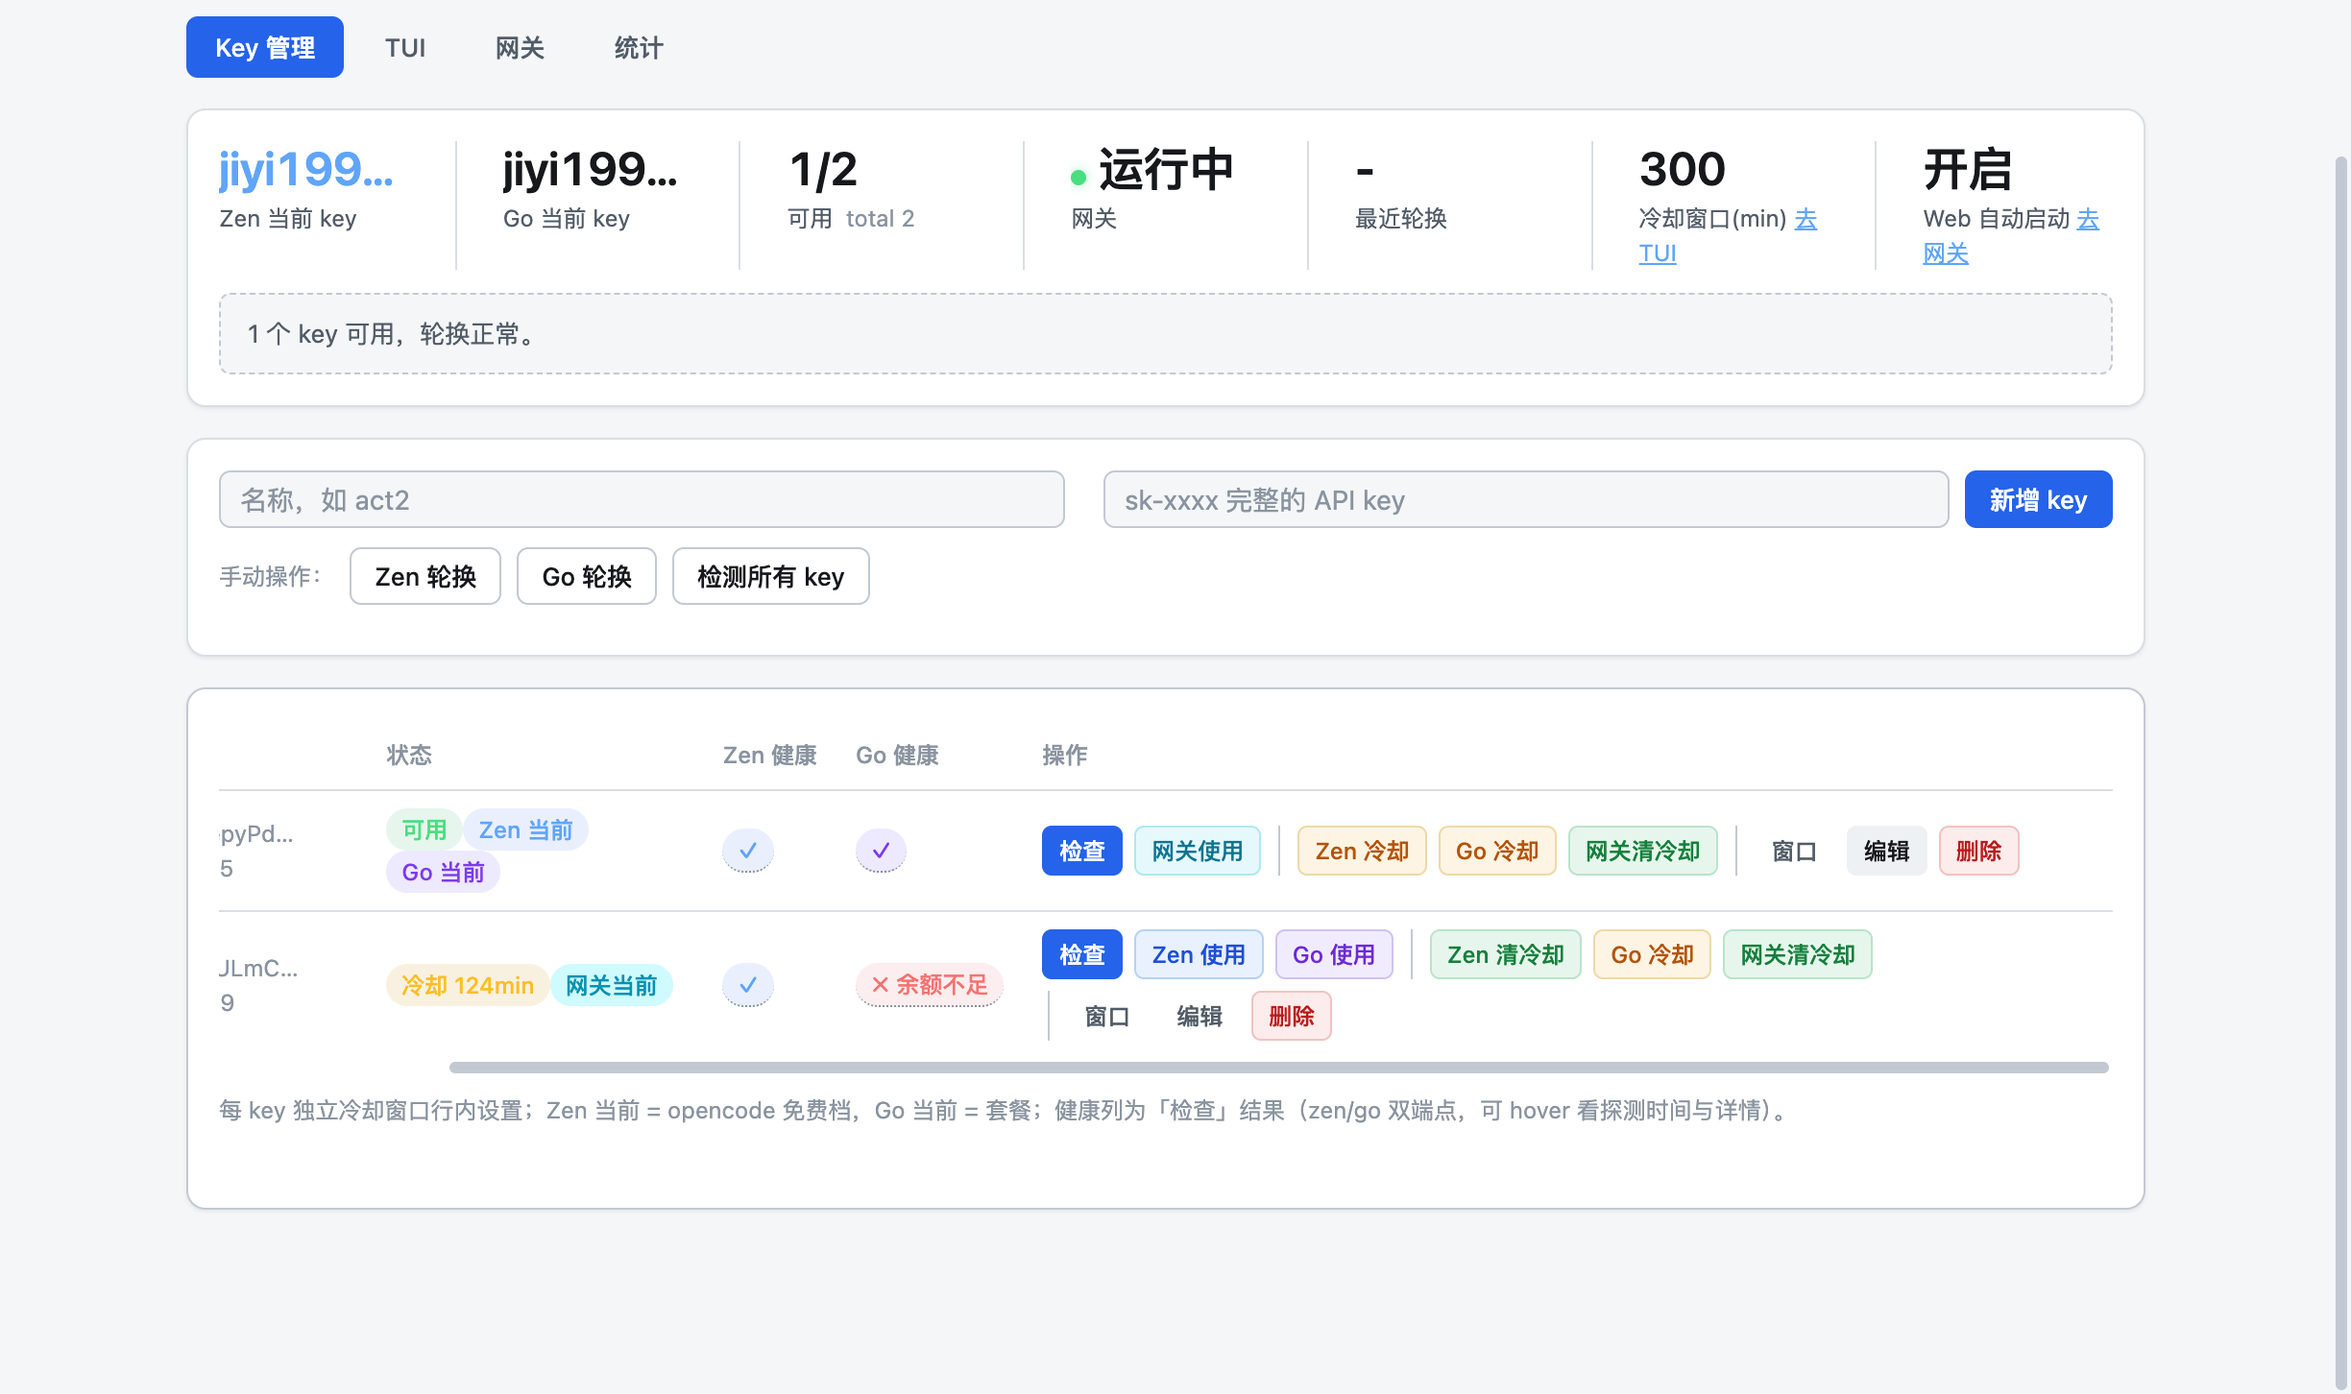
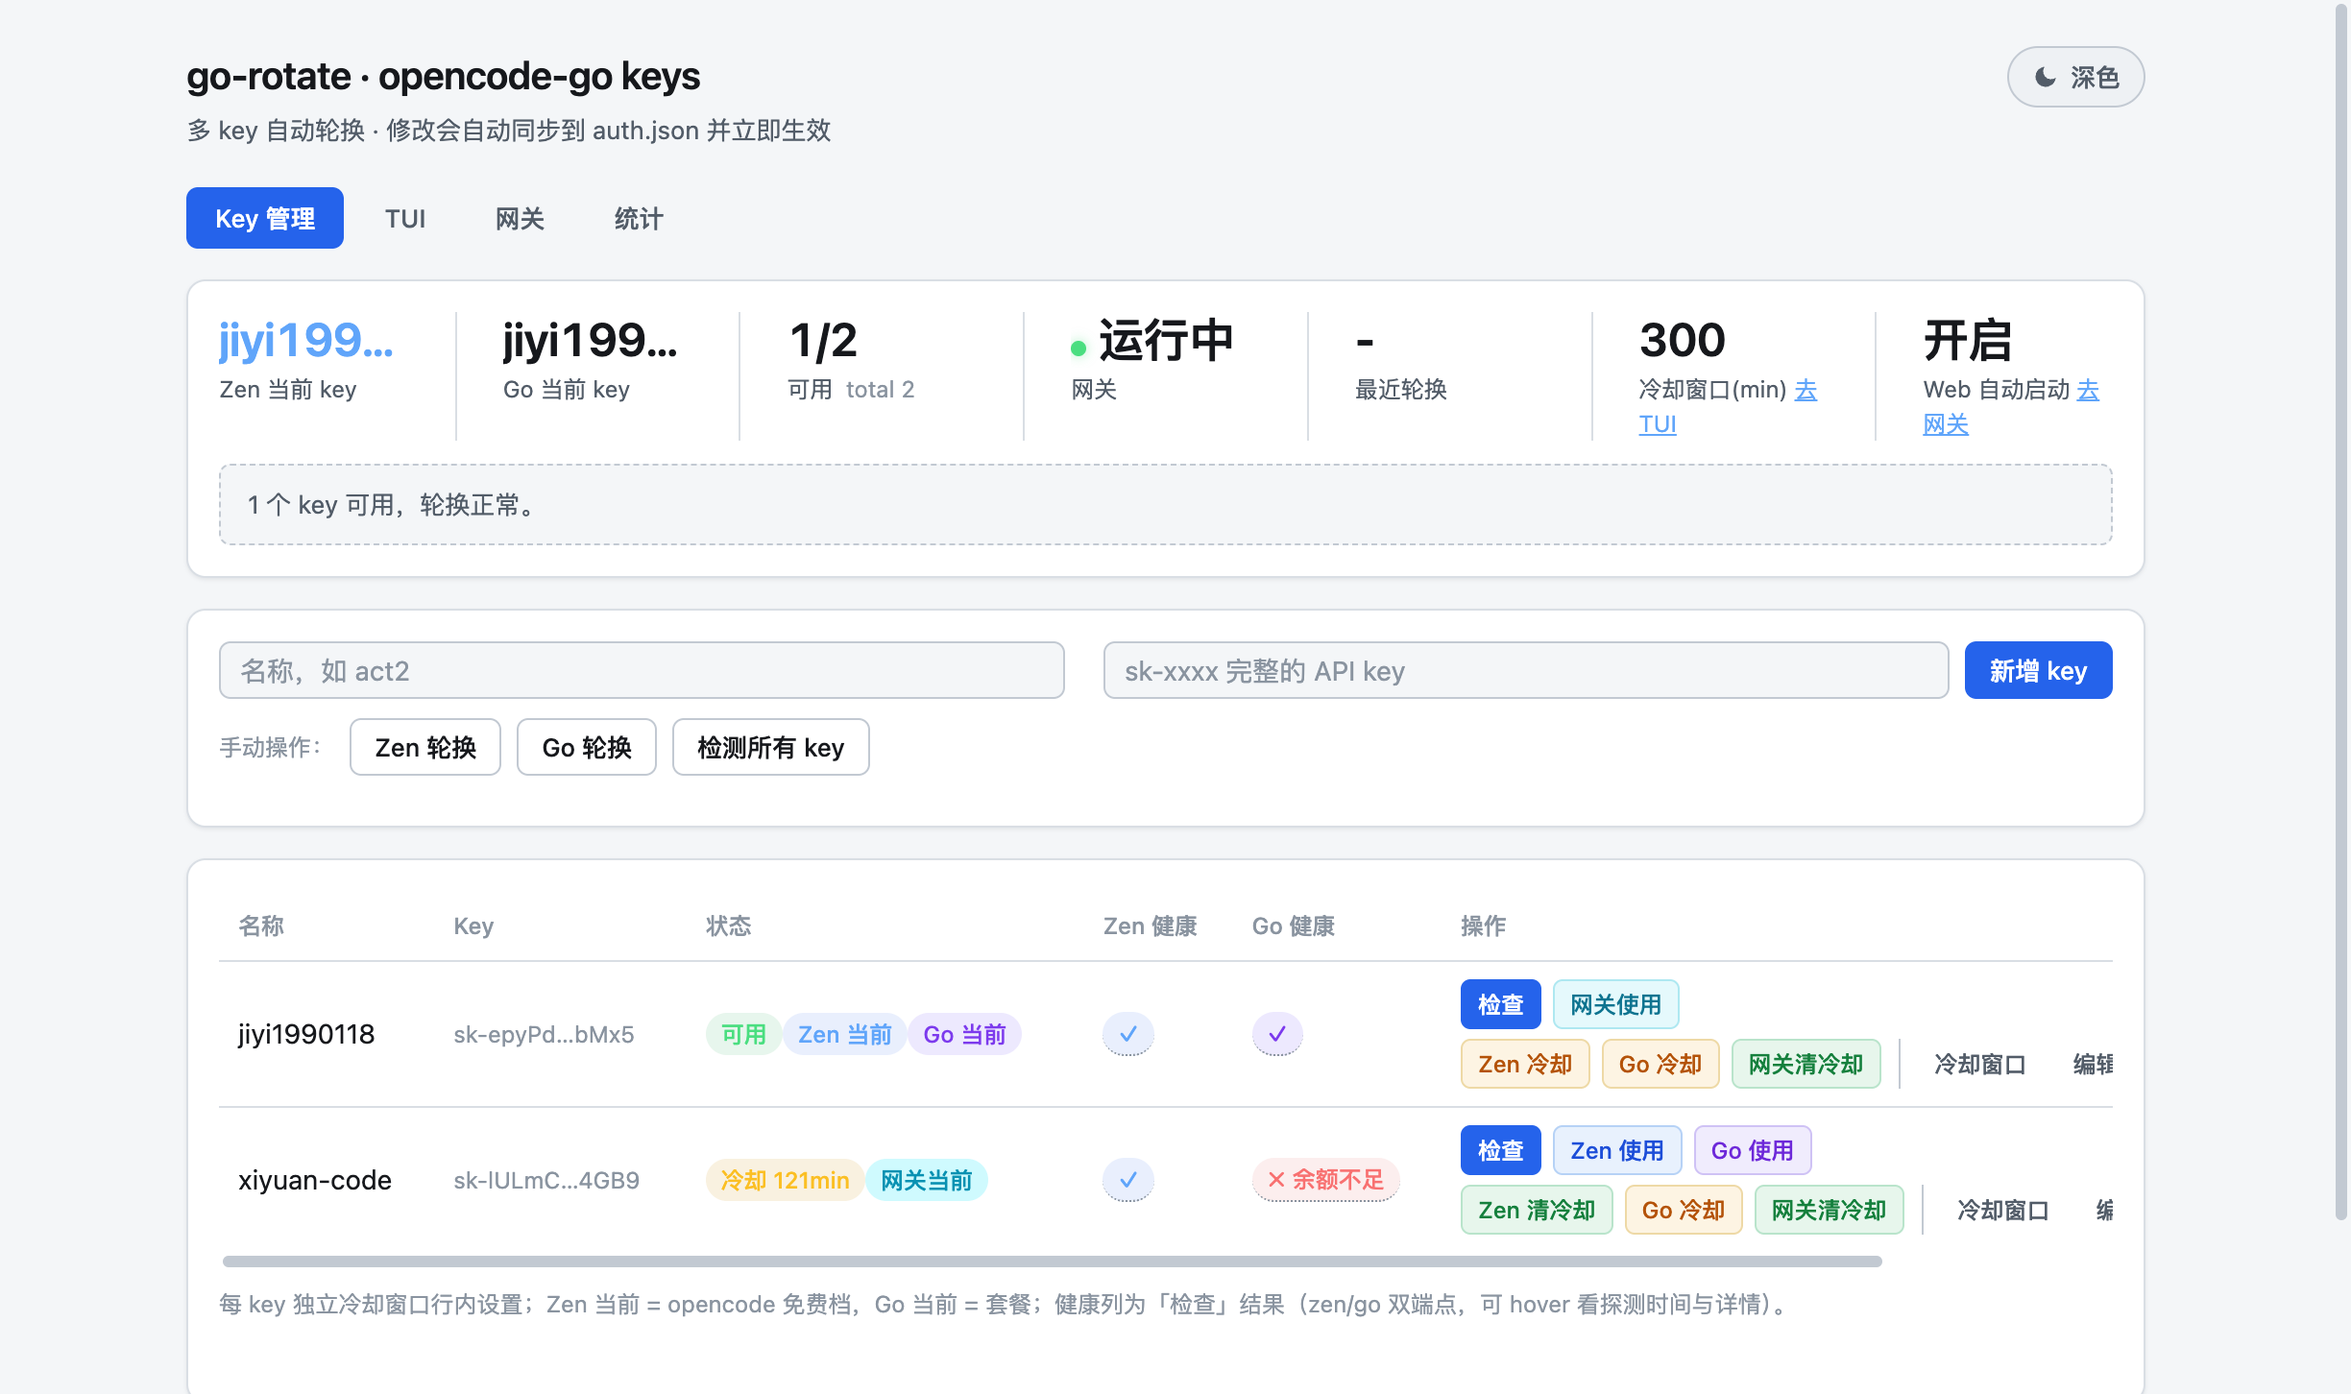
ui: two-row action layout + semantic cooldown-window button names
- .actions column layout with .row containers (row1: check+set-current, row2: cooldown+manage)
- separator rule scoped to .actions .row .grp + .grp (no border on row-leading group)
- rename 窗口->冷却窗口, 清窗->清除窗口 (data-window unchanged, title kept)
- plugin tests 137/137 (583 expect), inline JS node --check, real 8899 verified

diff --git a/go-rotate.ts b/go-rotate.ts
@@ -1278,10 +1278,12 @@ try {
   .small { font-size: 12px; }
   .row { display: flex; gap: var(--sp-2); align-items: center; }
   .row input { flex: 1; }
-  .actions { display: flex; gap: 6px; flex-wrap: wrap; }
-  /* 操作按钮分组：组间细分隔线 + 留白，按域/管理分块 */
+  .actions { display: flex; flex-direction: column; gap: 5px; }
+  /* 操作按钮两行布局：行1 = 检查 + 设为当前(三域)，行2 = 冷却(三域) + 管理 */
+  .actions .row { display: flex; gap: 6px; flex-wrap: wrap; align-items: center; }
+  /* 操作按钮分组：组间细分隔线 + 留白，按域/管理分块（每行行首组无边框） */
   .actions .grp { display: inline-flex; gap: 6px; align-items: center; }
-  .actions .grp + .grp { padding-left: 9px; border-left: 1px solid var(--bd-2); margin-left: 3px; }
+  .actions .row .grp + .grp { padding-left: 9px; border-left: 1px solid var(--bd-2); margin-left: 3px; }
   /* 单列堆叠：网关配置两块与日志双卡纵向排列，避免并排时内容宽度不足导致布局错乱 */
   .gw-config-grid { display: grid; grid-template-columns: 1fr; gap: var(--sp-4); align-items: start; }
   .log-row { display: grid; grid-template-columns: 1fr; gap: var(--sp-4); align-items: start; }
@@ -1793,7 +1795,7 @@ async function refresh() {
       const n = esc(k.name), key = esc(k.key), masked = esc(k.masked)
       const zenCooling = k.state === "cooling"
       const goCooling = !!(k.cooldown_until_go && Date.parse(k.cooldown_until_go) > Date.now())
-      /* 操作列分组：检查(主) | 设为当前(三域色) | 冷却(琥珀进入/绿清除) | 管理(ghost+danger) */
+      /* 操作列两行分组：行1 检查(主)+设为当前(三域色)；行2 冷却(琥珀进入/绿清除)+管理(ghost+danger) */
       tr.innerHTML =
         '<td class="td-name" title="' + n + '">' + n + '</td>' +
         '<td class="muted" title="' + key + '">' + masked + '</td>' +
@@ -1801,27 +1803,31 @@ async function refresh() {
         '<td>' + healthCell(k.last_status, k.last_checked_zen, "b-zen") + '</td>' +
         '<td>' + healthCell(k.last_status_go, k.last_checked_go, "b-go") + '</td>' +
         '<td><div class="actions">' +
-          '<button class="primary" data-check="' + n + '" title="探测该 key 双套餐健康（consumes ~1 token/端点）">检查</button>' +
-          '<span class="grp">' +
-            (k.isCurrent ? '' : '<button class="zen" data-set="' + n + '" title="设为 zen 免费档当前（同步 auth.json）">Zen 使用</button>') +
-            (k.isCurrentGo ? '' : '<button class="go" data-set-go="' + n + '" title="设为 go 套餐当前（不写 auth.json）">Go 使用</button>') +
-            (k.isCurrentGateway ? '' : '<button class="gw" data-set-gw="' + n + '" title="设为网关当前（不写 auth.json）">网关使用</button>') +
-          '</span>' +
-          '<span class="grp">' +
-            (zenCooling
-              ? '<button class="success" data-cooldown="' + n + '" data-min="0">Zen 清冷却</button>'
-              : '<button class="warn" data-cooldown="' + n + '" data-min="' + esc(st.cooldown_minutes) + '">Zen 冷却</button>') +
-            (goCooling
-              ? '<button class="success" data-cooldown-go="' + n + '" data-min="0">Go 清冷却</button>'
-              : '<button class="warn" data-cooldown-go="' + n + '" data-min="' + esc(st.cooldown_minutes) + '">Go 冷却</button>') +
-            '<button class="success" data-cooldown-gw="' + n + '" data-min="0" title="清除网关域冷却">网关清冷却</button>' +
-          '</span>' +
-          '<span class="grp">' +
-            '<button class="ghost" data-window="' + n + '" title="设置该 key 独立冷却窗口（分钟，留空清除回退全局）">窗口</button>' +
-            (k.cooldown_minutes ? '<button class="ghost" data-window-clear="' + n + '" title="清除独立窗口，回退全局">清窗</button>' : '') +
-            '<button class="ghost" data-edit="' + n + '" title="编辑名称 / key 值">编辑</button>' +
-            '<button class="danger" data-del="' + n + '">删除</button>' +
-          '</span>' +
+          '<div class="row">' +
+            '<button class="primary" data-check="' + n + '" title="探测该 key 双套餐健康（consumes ~1 token/端点）">检查</button>' +
+            '<span class="grp">' +
+              (k.isCurrent ? '' : '<button class="zen" data-set="' + n + '" title="设为 zen 免费档当前（同步 auth.json）">Zen 使用</button>') +
+              (k.isCurrentGo ? '' : '<button class="go" data-set-go="' + n + '" title="设为 go 套餐当前（不写 auth.json）">Go 使用</button>') +
+              (k.isCurrentGateway ? '' : '<button class="gw" data-set-gw="' + n + '" title="设为网关当前（不写 auth.json）">网关使用</button>') +
+            '</span>' +
+          '</div>' +
+          '<div class="row">' +
+            '<span class="grp">' +
+              (zenCooling
+                ? '<button class="success" data-cooldown="' + n + '" data-min="0">Zen 清冷却</button>'
+                : '<button class="warn" data-cooldown="' + n + '" data-min="' + esc(st.cooldown_minutes) + '">Zen 冷却</button>') +
+              (goCooling
+                ? '<button class="success" data-cooldown-go="' + n + '" data-min="0">Go 清冷却</button>'
+                : '<button class="warn" data-cooldown-go="' + n + '" data-min="' + esc(st.cooldown_minutes) + '">Go 冷却</button>') +
+              '<button class="success" data-cooldown-gw="' + n + '" data-min="0" title="清除网关域冷却">网关清冷却</button>' +
+            '</span>' +
+            '<span class="grp">' +
+              '<button class="ghost" data-window="' + n + '" title="设置该 key 独立冷却窗口（分钟，留空清除回退全局）">冷却窗口</button>' +
+              (k.cooldown_minutes ? '<button class="ghost" data-window-clear="' + n + '" title="清除独立窗口，回退全局">清除窗口</button>' : '') +
+              '<button class="ghost" data-edit="' + n + '" title="编辑名称 / key 值">编辑</button>' +
+              '<button class="danger" data-del="' + n + '">删除</button>' +
+            '</span>' +
+          '</div>' +
         '</div></td>'
       tb.appendChild(tr)
       }

diff --git a/AGENTS.md b/AGENTS.md
@@ -136,6 +136,8 @@ session.error 事件
 
 ## CLI 命令
 
+> **✅ Key 管理操作列两行化 + 按钮语义化（2026-08-17，用户反馈「按钮分两行展示、窗口语义化」→ 主线程追加）**：在分组多色基础上，① `.actions` 改 `flex-direction: column` + `.row` 子行容器（行1 = 检查+设为当前三域；行2 = 冷却三域+管理），分隔线规则改 `.actions .row .grp + .grp`（每行行首组无边框，实测行2 冷却组 0px / 管理组 1px，行间距 31px）；② 按钮名语义化：`窗口`→**冷却窗口**、`清窗`→**清除窗口**（title 保留，data-window 不变，测试只锁属性不锁文案）。**验证**：bun build ✅ + 插件单测 **137/137（583 expect，+4**：`.row` 容器×2 + 冷却窗口/清除窗口文案）✅ + 内嵌 JS node --check ✅；副本已同步 + 8899 重启（PID 23235）；浏览器实测 ✅（`flex-direction: column`、row1=[检查,网关使用]、row2=[Zen 冷却,Go 冷却,网关清冷却,冷却窗口,编辑,删除]、两行 top 510/541、分隔线 0px/1px 正确）；截图更新 `docs/gr-admin-keys-grouped.png`。**⚠ 观测**：验证期间页面两次弹出「冷却窗口」prompt（jiyi1990118 / xiyuan-code），非本会话触发、疑为用户手动操作，未代 dismiss/accept（dismiss 会清窗口=改配置）；若用户当时未输入，需自行完成。**commit 见 git log（未 push）。**
+
 > **✅ Key 管理操作列分组 + 状态多色交付（2026-08-17，用户反馈「按钮太多、状态分多种样式」→ 主线程实施）**：仅改 `go-rotate.ts`（CSS + refresh() 渲染）+ 单测断言，未动后端/CLI/网关。① **按钮分组**：`.actions` 内按「检查(主) | 设为当前(三域) | 冷却(三域) | 管理(窗口/编辑/删除)」四块，`.grp + .grp { border-left: 1px solid var(--bd-2); padding-left: 9px }` 细分隔线（实测第 2/3 组 1px #c2c9d2 浅 / #2c3442 深生效）。② **域色按钮**（新增双主题变量 `--btn-zen-*` 蓝 / `--btn-go-*` 紫 / `--btn-gw-*` 青 / `--btn-warn-*` 琥珀 + class `button.zen/go/gw/warn`）：检查=primary 实心蓝、Zen 使用=zen 蓝 soft、Go 使用=go 紫 soft、网关使用=gw 青 soft、冷却（进入）=warn 琥珀、清冷却=success 绿、窗口/清窗/编辑=ghost、删除=danger 红。③ **徽标域色化**：三域当前徽标 `b-current` → `b-zen`（蓝）/`b-go`（紫）/`b-gw`（青，新增 `.b-zen/.b-go/.b-gw` + `--go/--go-soft/--gw/--gw-soft` 双主题变量）；双套餐健康列 ✓ 从 `b-available` 绿改为域色（zen 列蓝 `b-zen` / go 列紫 `b-go`，✗ 分支保留语义色红/黄）。**验证**：bun build ✅ + 插件单测 **137/137（579 expect，+28 断言**：grp 分隔线/四组 class/badge 域色/健康列域色/双主题变量 8 个 + class 4 个）✅ + 渲染后内嵌 JS 双块 node --check ✅；副本已同步 + 8899 重启（PID 20519）；真实浏览器实测 ✅（行 1：Zen 当前蓝 + Go 当前紫 + ✓ 蓝/紫，按钮 检查[primary]/网关使用[gw]/冷却[warn]/清冷却[success]/窗口编辑[ghost]/删除[danger]；行 2：冷却琥珀 + 网关当前青 + Zen 使用[zen]/Go 使用[go]/Zen 清冷却[success]；分组 3 组分隔线生效；深色 rgba(96,165,250,.12)/rgba(167,139,250,.12)/rgba(34,211,238,.12)/rgba(251,191,36,.12) 全对，浅色 #e8f1fd/#f0ecfd/#e5f9fc/#fdf4e3 全对，双主题切换按钮 transition 后稳定）；截图 `docs/gr-admin-keys-grouped.png`。遗留（非阻塞）：操作列 11 按钮分组后仍占 2 行（flex-wrap，860px 横向滚动兜底）；`button.success` 加载 spinner 色已预留；健康列 ✓ 改域色后「绿=可用」语义移到状态列 badge 体现。
 
 > **✅ 三域分离（zen/go/网关）完整交付已完成（2026-08-17，用户新需求「网关和 TUI 分页设置互不干扰 + 每 key 双套餐健康检查」→ 设计契约 `docs/三域分离与双套餐健康-设计.md`（commit f87e5d2）+ Team A/B/C 并行 + 主线程集成）**：三域各自独立 current + 冷却 + 轮换。**Team A（go-rotate.ts +403/-177，插件+Web）**：schema 三域（`current` zen 字段名不变 + `current_go`[读侧兜底 `current_go ?? current`] + `current_gateway`；每 key `cooldown_until`/`cooldown_until_go`/`cooldown_until_gateway` + `last_status`[zen]/`last_status_go` + `last_checked_zen`/`last_checked_go`；cooldown_minutes 三域共享）；注入分流 `isGoProvider(pid)`=pid==="opencode-go"||endsWith("opencode-go") 注入 go 域 current、`isZenProvider(pid)`=includes("opencode")&&!isGoProvider 注入 zen 域 current（非 opencode 不注入红线不变）；`rotate(msg,err,domain)`/`manualRotate(domain)`/`pickNext(cfg,domain)`/`currentKey(cfg,domain)` 按域（**go 域绝不 syncAuth**，auth.json 单槽仅 zen 域维护）；probeKey 双端点（zen `https://opencode.ai/zen/v1`+hy3-free / go `https://opencode.ai/zen/go/v1`+hy3，max_tokens:1+15s）→ `/api/keys/check` 改 **POST-only**（GET 404）；statusPayload 三域 + 每 key isCurrentGo/isCurrentGateway；Web **4 区块导航**（nav-keys 默认[三域健康总览条 s-current+s-current-go + key 表双套餐健康列/三域按钮徽标] / nav-tui[zen+go 双子卡，各自手动轮换+冷却列表+当前 key] / nav-gateway[网关设置+使用方式卡] / nav-stats 不变）；表格增量守卫 sig 纳入三域字段。**Team B（CLI）**：见下一条「三域分离 CLI 交付」记录（go set/next/cooldown + check 双端点 + status 三域，CLI 测试 76→107）。**Team C（网关核对+文档）**：gateway.mjs 逐项 ✅（current_gateway/cooldown_until_gateway 全链路、rotate 无 syncAuth、healthz/gateway status|config 返网关域、available 按网关域冷却）网关测试 206/206；新建 `docs/浏览器快照-三域重构前基线.md`；发现 **M-1**：`gatewayConfigSummary` per-key 只透 `cooldown_until`（zen 域）与 top-level current 域不一致。**主线程集成**：**M-1 已修**（gateway.mjs `gatewayConfigSummary` keys → `cooldown_until_gateway ?? null` + 注释同步 + 网关测试 +1 用例断言两域字段分离 → **207/207 PASS**）；全量复验 **插件 137/137（551 expect）+ CLI 107/35/21 + 网关 207/207 + bun build + 渲染后内嵌 JS 双块 node --check 全 PASS**；安装副本已同步（go-rotate.ts/go-rotate/gateway.mjs md5 一致）+ 重启 8899（PID 95855）/18888（PID 95913）；真实环境验证 ✅：8899 `/api/status` 三域（current=jiyi1990118 / current_go=jiyi1990118 / current_gateway=xiyuan-code，2 keys）+ 浏览器 4 区块实测（nav=[keys,tui,gateway,stats]、s-current/s-current-go/gw-current 三域独立、key 表「Zen 健康/Go 健康」双列、TUI zen 卡[当前+冷却中 key 列表+手动轮换+全局冷却] + go 卡[当前+不写 auth 提示]、网关卡 4 卡含使用方式、统计页守卫）✅ + 18888 healthz 带 Bearer（ok keys=2 available=2 current=xiyuan-code，网关域）✅；README 补 3 行特性 + FAQ provider 判定改写（双 provider 分流说明）。**⚠ 观察**：集成期间日志出现 4 次非本会话触发的写操作（08:38 go 域轮换→xiyuan-code / 08:39:48/49 zen 域轮换×2→jiyi1990118 / 08:40:24 go set→jiyi1990118），疑为用户浏览器手动操作或环境进程，均为合法写操作（版本一致格式），当前真实配置三域状态正常。遗留（非阻塞）：真实配置 `current_go`/`current_gateway` 已随上述操作自然写入；`/api/rotate` 仅支持 zen/go 域（网关域由 CLI/网关自身管理）；`zen-gateway restart` 健康检查误报（需带 Bearer）。**commit 见 git log（本次未 push，需发布 GitHub 请告知）。**
